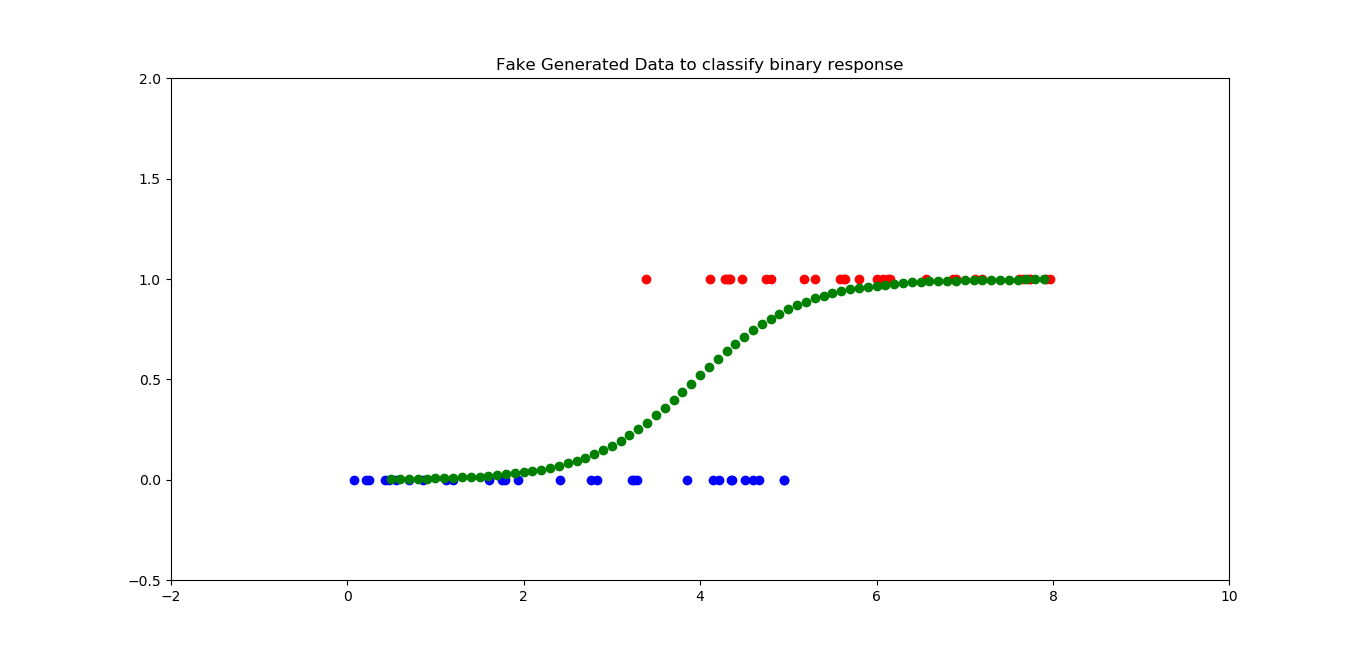
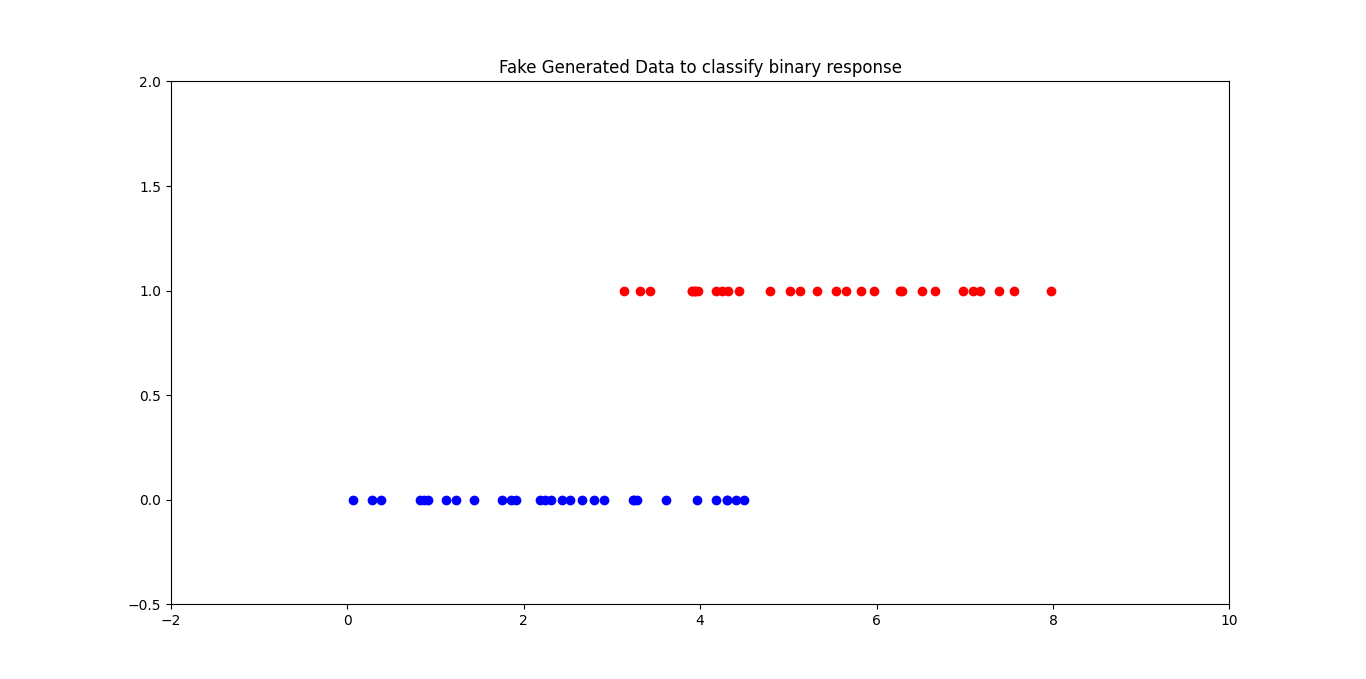
update image

diff --git a/run.py b/run.py
@@ -4,7 +4,7 @@ import numpy as np
 
 from utils.data import generate_data
 from utils.model import train_model, latest_modified_weight, load_model
-from utils.plot import model_plot, prediction_plot
+from utils.plot import model_plot, prediction_plot,data_plot
 
 
 def parse_args():
@@ -34,6 +34,7 @@ if __name__ == '__main__':
     if args.load:
         weight = latest_modified_weight()
         model = load_model(weight)
+        data_plot(x1, y1, x2, y2)
         model_plot(model, x1, y1, x2, y2)
         prediction_plot(model, x1, y1, x2, y2, 5.53)
         prediction_plot(model, x1, y1, x2, y2, 3.42)

diff --git a/utils/plot.py b/utils/plot.py
@@ -3,6 +3,16 @@ from matplotlib import pyplot as plt
 from utils.model import logistic
 
 
+def data_plot(x1, y1, x2, y2):
+    plt.title(f'Fake Generated Data to classify binary response')
+    plt.plot(x1, y1, 'ro', color='blue')
+    plt.plot(x2, y2, 'ro', color='red')
+
+
+    plt.axis([-2, 10, -0.5, 2])
+    plt.show()
+
+
 def model_plot(model, x1, y1, x2, y2):
     plt.title(f'Logistic Regression')
     plt.plot(x1, y1, 'ro', color='blue')
